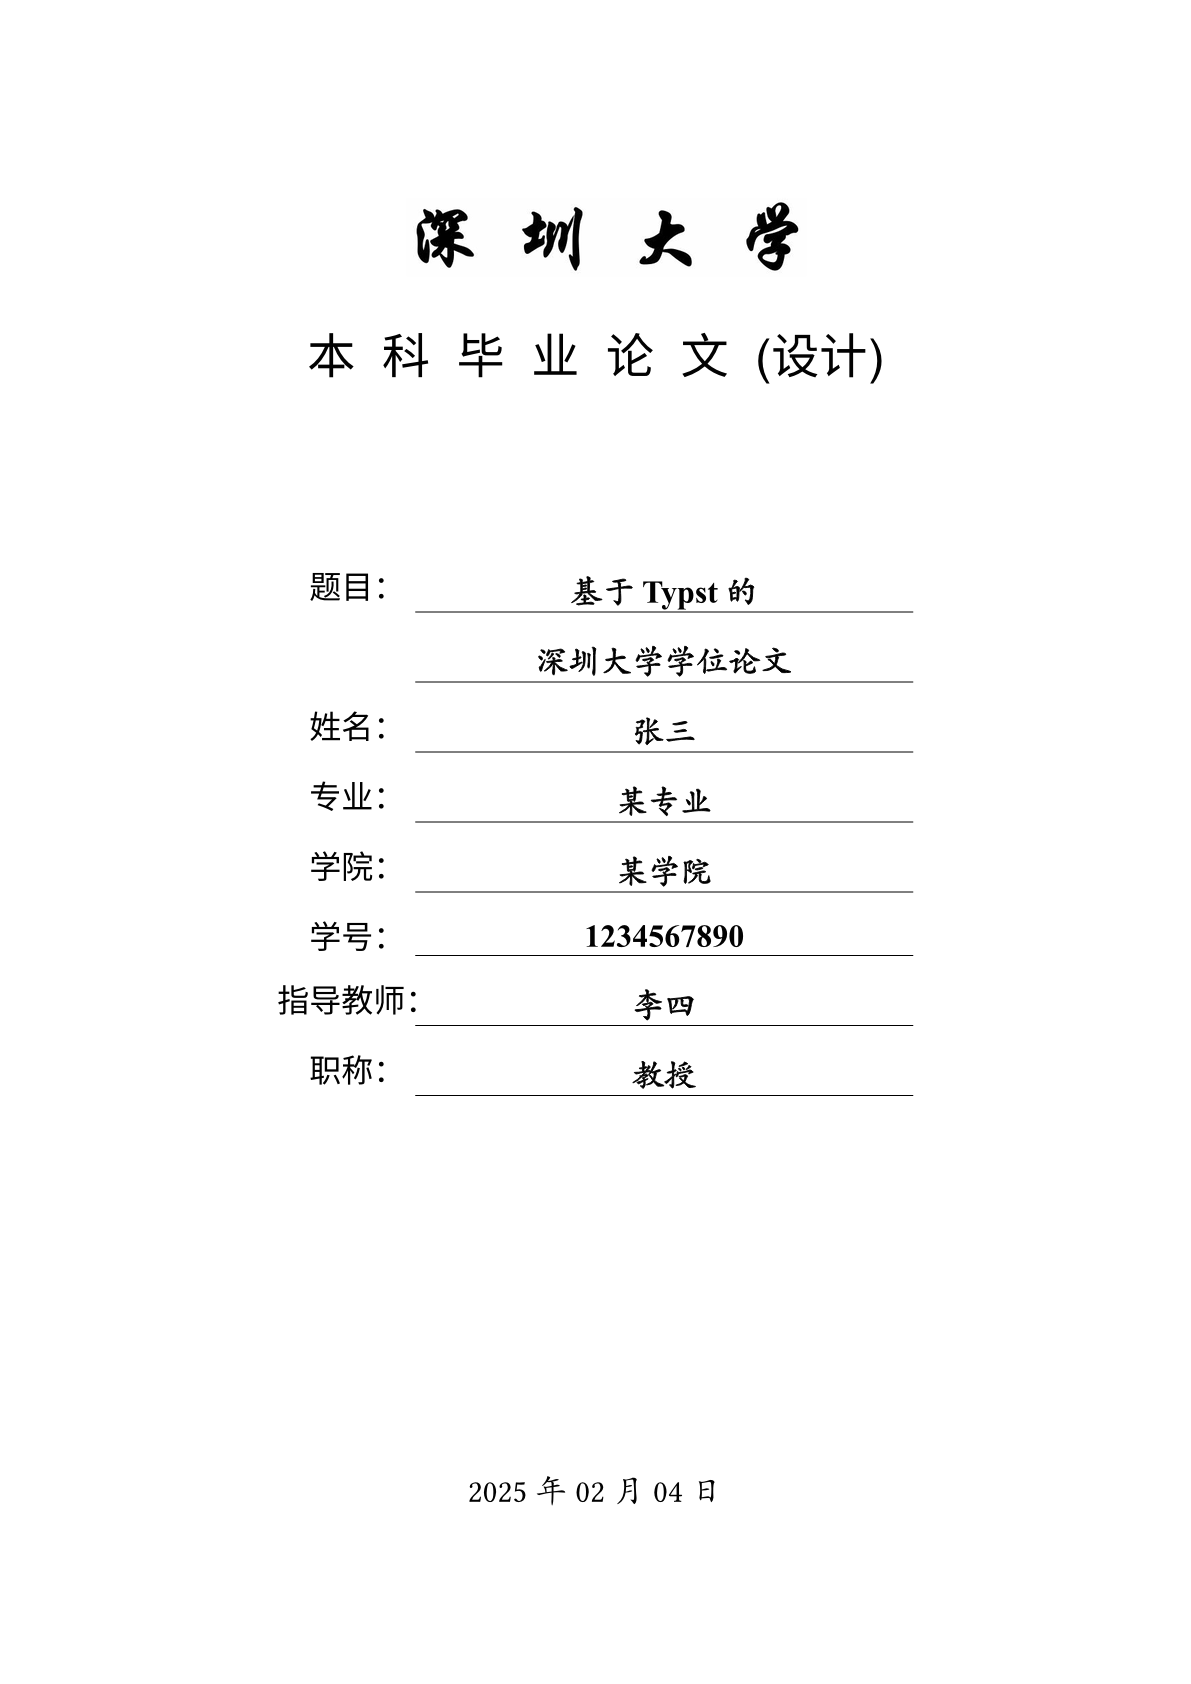
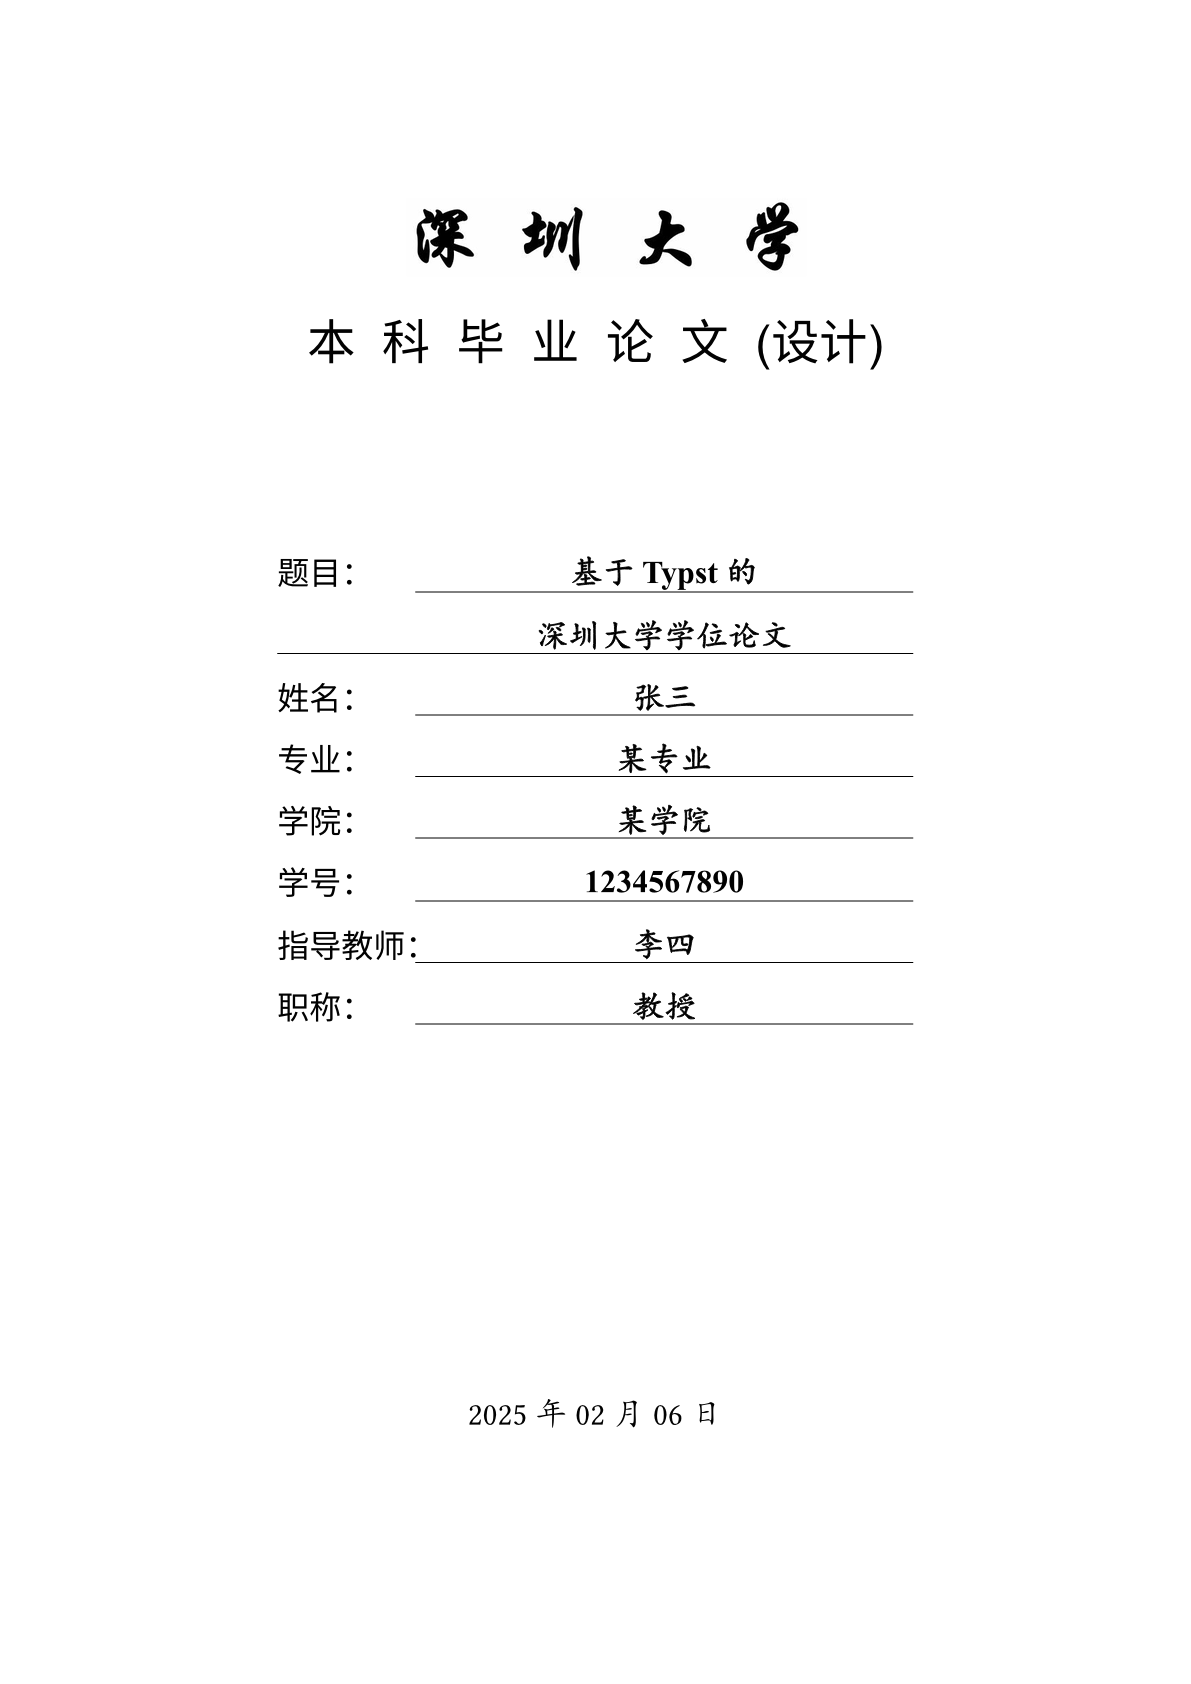
fix:封面复刻,pub:0.1.2

diff --git a/README.md b/README.md
@@ -38,7 +38,7 @@ typst
 
 # 计划路线图
 
-- []封面复刻
+- [x]封面复刻
 - [x]诚信声明
 - [x]目录
 - [x]中文摘要
